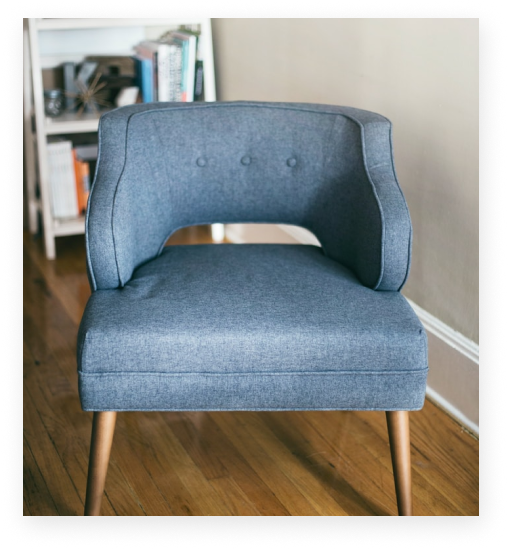
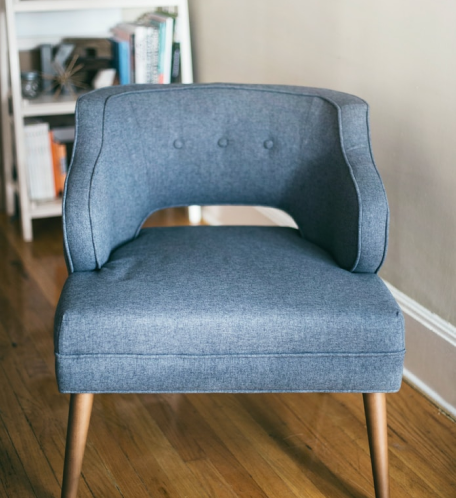
update

diff --git a/src/components/Welcomesec.jsx b/src/components/Welcomesec.jsx
@@ -1,24 +1,46 @@
 import React from 'react'
-import chair from '../assets/images/png/chair.webp'
+import chair from '../assets/images/png/chair.png'
 
 function Welcomesec() {
     return (
-        <div className='md:pt-24 pt-16 lg:pb-44'>
+        <div className='md:pt-24 pt-20 xl:pb-44'>
             <div className="max-w-[1320px] px-3 mx-auto">
                 <div className='flex flex-wrap flex-row -mx-3 justify-center  '>
-                    <div className='lg:w-2/4 px-3 relative z-[1]' data-aos="fade-left">
+                    <div className='lg:w-5/12 px-3 ' data-aos="fade-left">
                         <div className='relative'>
-                            <img src={chair} alt="chair" className='z-[1] max-lg:w-full shadow-[3px_8px_26px_0px_#0000001F]' />
+                            <div className='w-[416px] h-[336px] bg-gradient1  absolute top-[-50px] left-[-39px] -z-10'></div>
+                            <img src={chair} alt="chair" className=' w-full h-[70%] shadow-[3px_8px_26px_0px_#0000001F]  ' />
+                            <div className="max-w-[254px] max-h-[78px] w-full h-full bg-white absolute bottom-0 right-0 flex py-4 px-[15px] items-center justify-between ">
+                                <p className="font-poppins text-sm  leading-normal font-normal text-center text-[#243040]">
+                                    Explore Video
+                                </p>
+                                <div className="w-[30%] border-t border-[#243040] border-solid"></div>
+                                <a href="https://www.youtube.com/watch?v=b372W08W6cA">
+                                    <svg
+                                        width="45"
+                                        height="45"
+                                        viewBox="0 0 45 45"
+                                        fill="none"
+                                        xmlns="http://www.w3.org/2000/svg"
+                                    >
+                                        <circle cx="22.5" cy="22.5" r="22.5" fill="#BD7D41" />
+                                        <path
+                                            d="M33 22.5L17.25 31.5933L17.25 13.4067L33 22.5Z"
+                                            fill="white"
+                                        />
+                                    </svg>
+                                </a>
+                            </div>
                         </div>
-                        <div className='w-[416px] h-[336px] bg-gradient1  absolute top-[-31px] left-[-27px] -z-10'></div>
+
                     </div>
-                    <div className='lg:w-2/4  w-full  px-3 pt-12 lg:pt-0' data-aos="fade-right">
+                    <div className='lg:w-7/12  w-full  px-3 pt-12 lg:pt-0 lg:pl-24' data-aos="fade-right">
                         <div className='flex items-center gap-2 max-lg:justify-center'>
                             <div className='h-[1px] w-[95px] bg-[#000]'></div>
                             <h2 className='text-[#BD7D41] font-Poppins text-xl font-normal max-lg:text-center'>Welcome Our Story</h2>
                         </div>
                         <h2 className='text-[#243040] font-Poppins text-2xl sm:text-[35px] font-bold lg:max-w-[436px] pt-5 max-lg:text-center  sm:leading-normal'>We create the product you tell us you wish existed.</h2>
-                        <p className='font-Poppins font-normal text-lg text-[#000000B2] pt-5 max-lg:text-center  sm:leading-normal'>Lorem ipsum dolor sit amet, consectetur adipiscing elit. Sed faucibus, urna at pulvinar porta, augue lorem ullamcorper orci, non rhoncus nisi neque sit amet nibh. Phasellus consectetur semper ante et mattis</p>
+                        <p className='font-Poppins font-normal text-lg text-[#000000B2] pt-5 max-lg:text-center  sm:leading-normal lg:max-w-[530px]'>Lorem ipsum dolor sit amet, consectetur adipiscing elit. Sed faucibus, urna at pulvinar porta, augue lorem ullamcorper orci, non rhoncus nisi neque sit amet nibh. Phasellus consectetur semper ante et mattis</p>
                         <div className='max-lg:flex max-lg:justify-center '>
                             <button className="before:ease relative   font-Poppins text-xl bg-[#BD7D41]  text-center font-semibold mt-9 overflow-hidden text-white  transition-all before:absolute  before:h-0 before:w-64 before:origin-center before:-translate-x-24 before:rotate-45 before:bg-[#243040] before:duration-300 hover:text-white hover:shadow-[6px_13px_38px_0px_#0000001F] hover:before:h-72  hover:before:w-[80rem] hover:before:-translate-y-32 flex items-center justify-center ">
                                 <span className="relative z-10 text-nowrap p-[19px_48px]">READ MORE</span>

diff --git a/src/components/Headersec.jsx b/src/components/Headersec.jsx
@@ -97,7 +97,7 @@ const Headersec = () => {
                 </div>
             </div>
             <div className="max-w-[1320px] px-3 mx-auto pb-5 flex items-center justify-center flex-col" data-aos="zoom-in" data-aos-delay="1000">
-                <h2 className='text-white font-Poppins sm:text-[48px] text-[40px] sm:text-5xl font-bold text-center pt-28 capitalize max-w-[908px] mx-auto sm:leading-normal'>Awesome Design Best Furniture For Your Interior</h2>
+                <h2 className='text-white font-Poppins sm:text-[48px] text-[40px] sm:text-5xl font-bold text-center sm:pt-28 pt-12 capitalize max-w-[908px] mx-auto sm:leading-normal'>Awesome Design Best Furniture For Your Interior</h2>
                 <p className='text-white text-xl font-Poppins font-normal text-center pt-2 pb-5 '>Lorem ipsum dolor sit amet, consectetur adipiscing elit. Vivamus </p>
                 <button className='before:ease relative bg-[#BD7D41]  text-white font-Poppins sm:text-xl text-[15px] mt-12  text-center font-semibold text-nowrap  duration-300 overflow-hidden  transition-all before:absolute  before:h-0 before:w-72 before:origin-center before:-translate-x-24 before:rotate-45 before:bg-[#243040] before:duration-300 hover:text-white hover:shadow-[6px_13px_38px_0px_#0000001F] hover:before:h-72  hover:before:w-[80rem] hover:before:-translate-y-32 flex items-center justify-center'>
                     <span className="relative z-10 text-nowrap p-[19px_48px_19px_48px] ">SHOP NOW</span>
